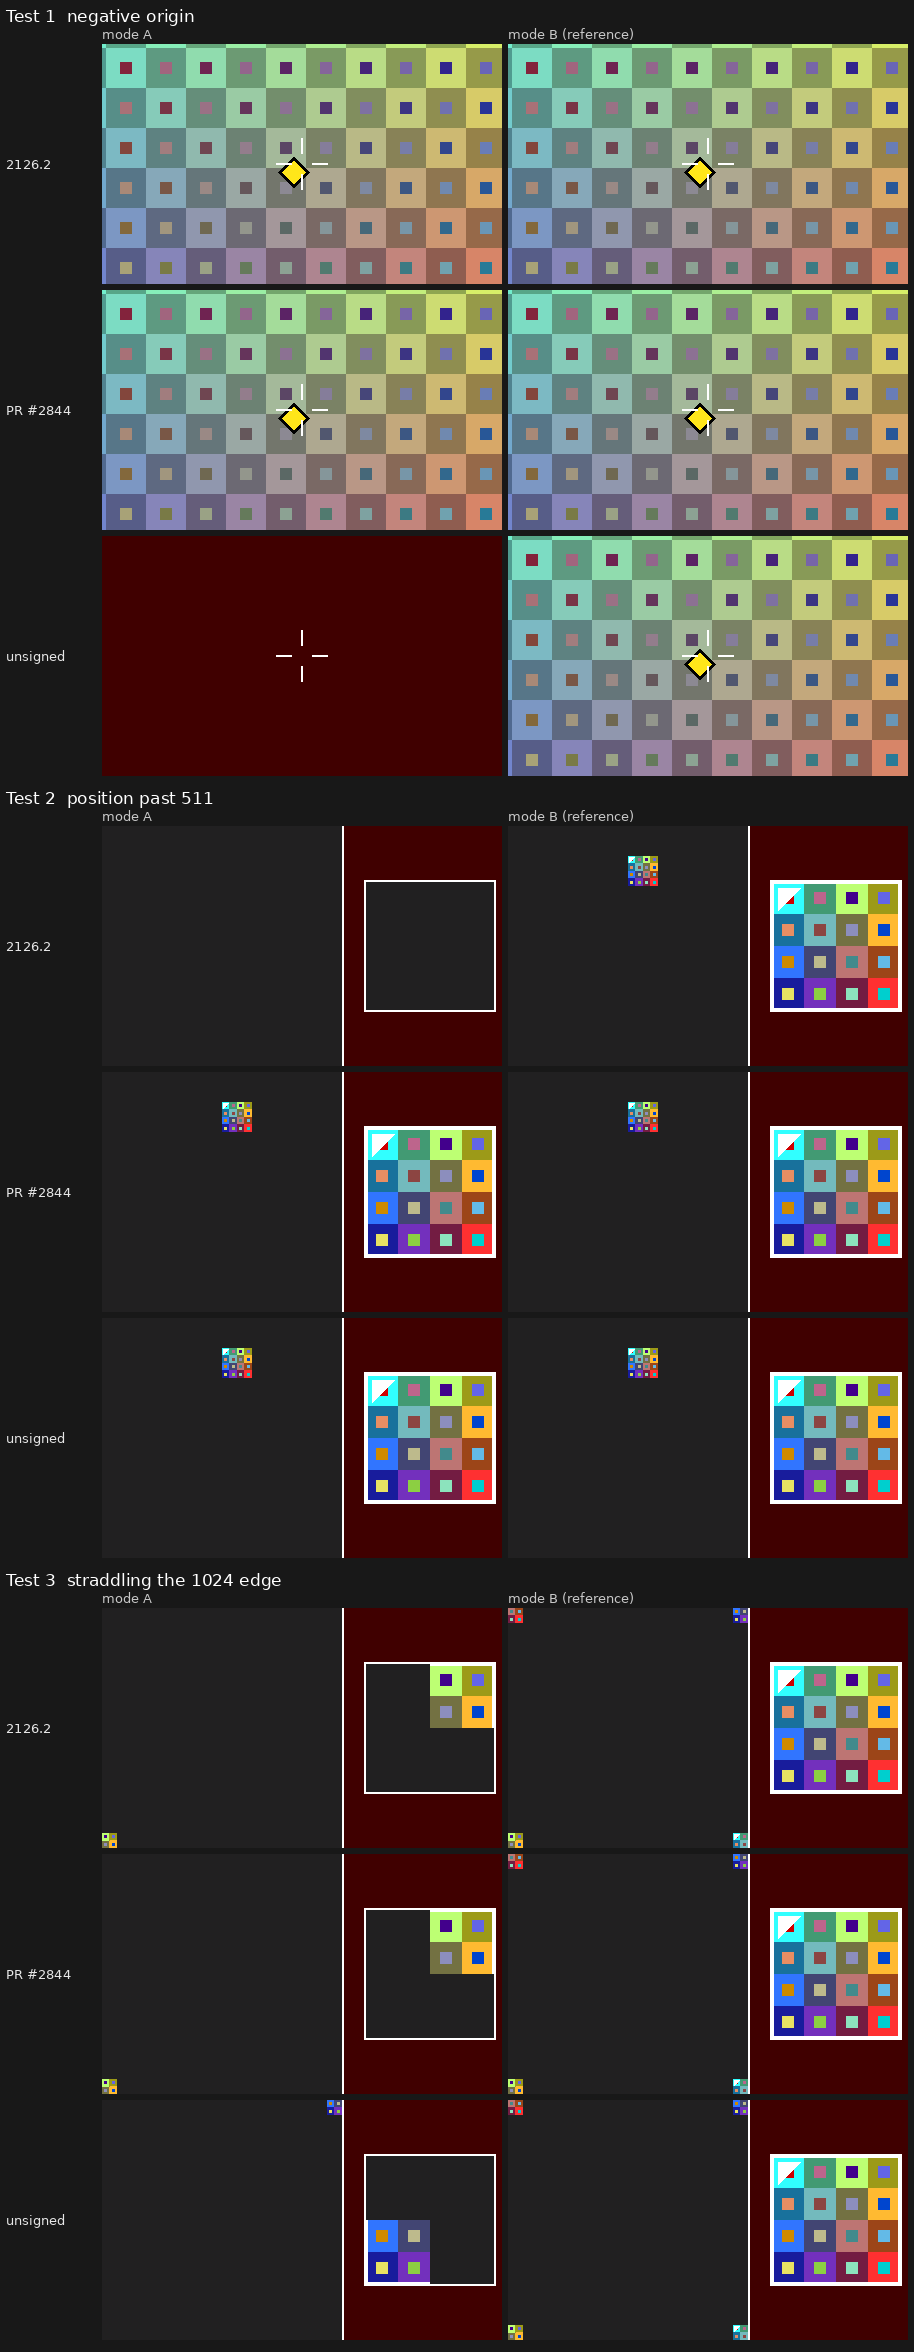
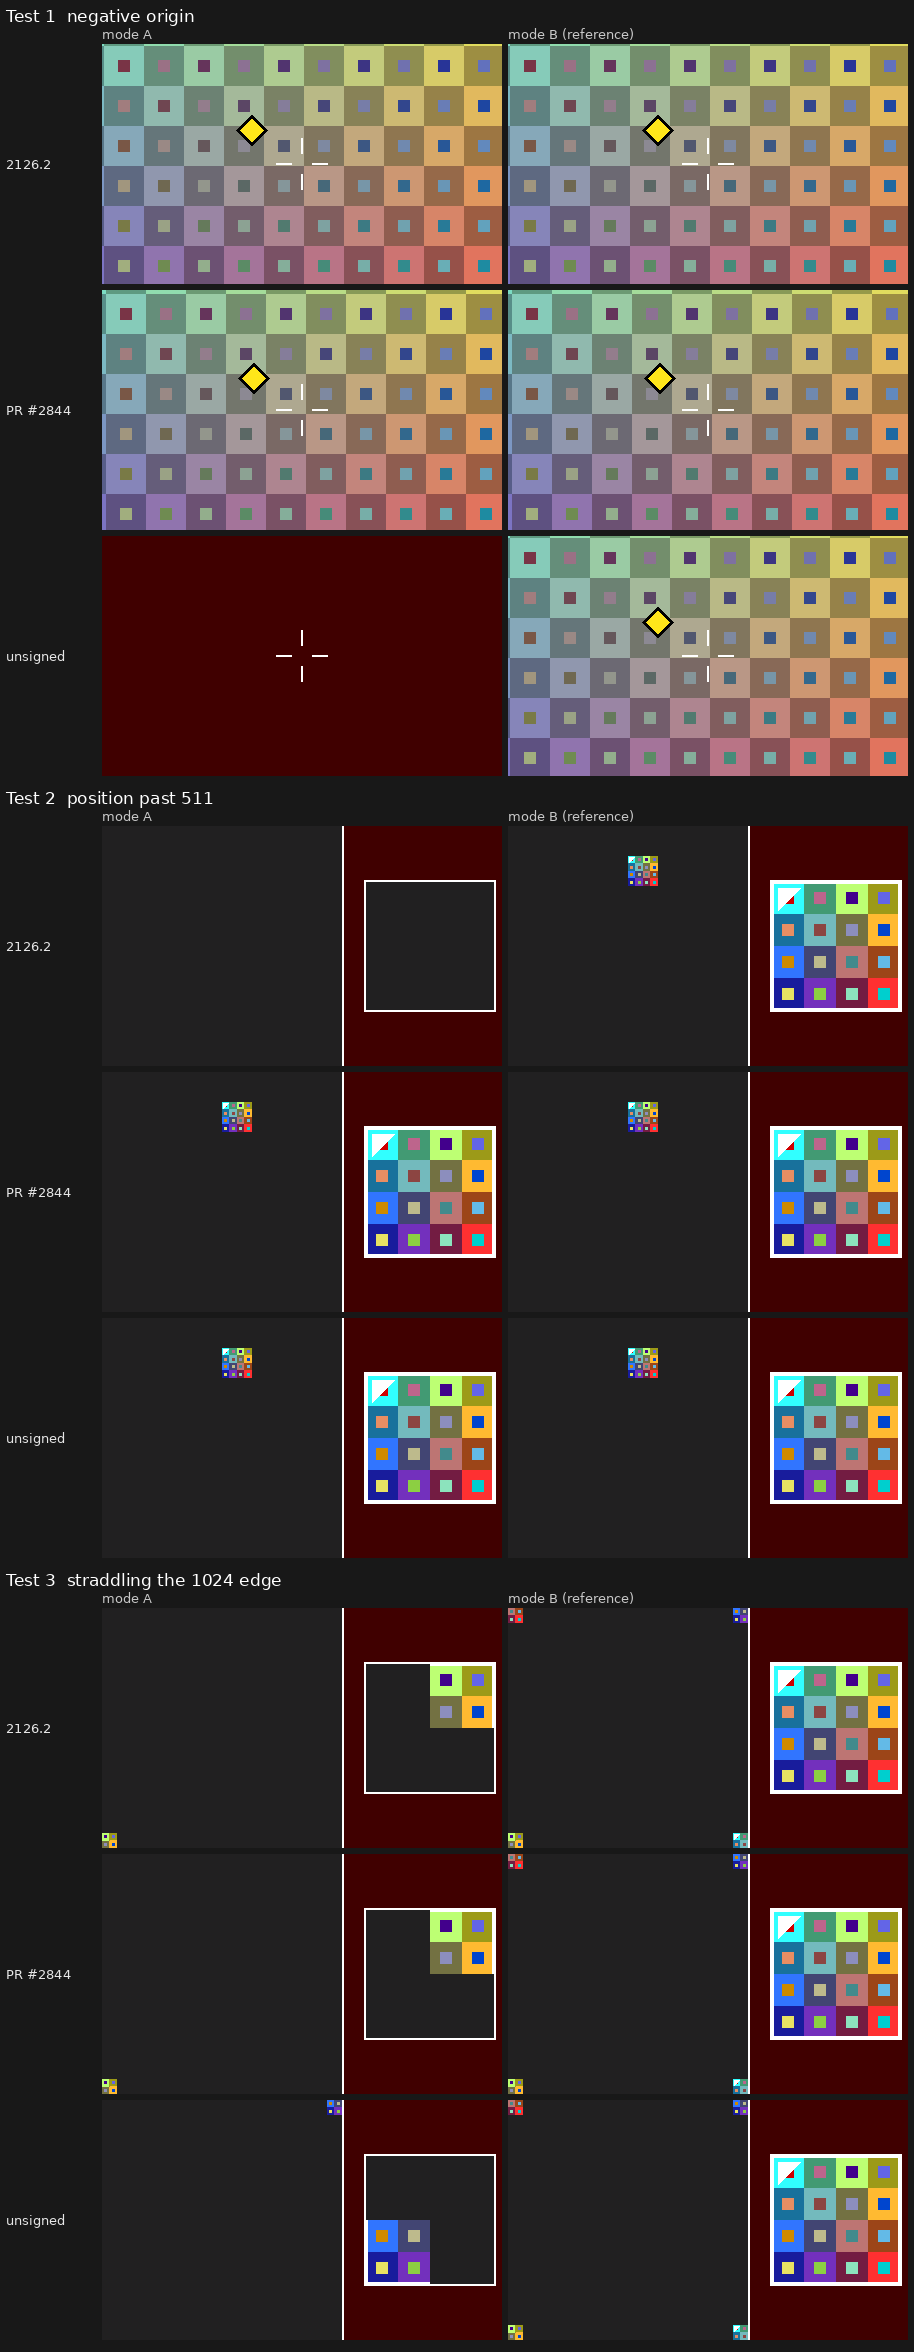
Fix the test 3 reference on a console, and move the controls off the screenshot shortcut
The references no longer touch the far edge of the 1024x1024 viewport, where a console drops the triangle. D-pad left and right pick the test and the circle pad scrolls, so L, SELECT and D-pad down are free. README: results of v1.1 on a Nintendo 3DS XL.

diff --git a/source/main.c b/source/main.c
@@ -1,9 +1,10 @@
-// Viewport origin tests for GPUREG_VIEWPORT_XY. L and R pick one of three:
+// Viewport origin tests for GPUREG_VIEWPORT_XY. D-pad left and right pick one of three:
 //  1  A negative origin: an 800x480 picture scrolled behind the top screen by moving the viewport origin.
 //  2  A position past 511: a picture drawn at 512,768 in a 1024x1024 buffer.
 //  3  Straddling the 1024 edge: the same picture at 960,960, which only fits if the origin wraps.
-// Mode A uses the origin under test. Mode B draws the same thing with the viewport at 0,0 and the
-// projection shifted, as the reference. X switches between them. Every test starts in mode A.
+// Mode A uses the origin under test. Mode B draws the same thing with the viewport at 0,0, as the
+// reference. X switches between them. Every test starts in mode A.
+// L, SELECT and the rest of the D-pad do nothing, so a screenshot shortcut does not disturb a test.
 
 #include <3ds.h>
 #include <citro3d.h>
@@ -27,11 +28,15 @@
 
 #define BUF 1024 // the off-screen buffer, square
 #define PIC 128  // the picture drawn into it, square
+#define POS_X    512 // where test 2 draws it
+#define POS_Y    768
+#define STRADDLE 960 // where test 3 draws it, on both axes
 
 #define WORLD_VERTS  (COLS * ROWS * 12)
 #define TARGET_VERTS 12
 #define HUD_VERTS    24
 #define PIC_VERTS    (16 * 12 + 24 + 3)
+#define REF3_MAX     (PIC_VERTS * 4)
 #define VIEW2_VERTS  12
 #define VIEW3_VERTS  30
 #define FRAME_VERTS  30
@@ -42,7 +47,9 @@ enum
 	V_TARGET = V_WORLD + WORLD_VERTS,
 	V_HUD    = V_TARGET + TARGET_VERTS,
 	V_PIC    = V_HUD + HUD_VERTS,
-	V_VIEW2  = V_PIC + PIC_VERTS,
+	V_REF2   = V_PIC + PIC_VERTS,
+	V_REF3   = V_REF2 + PIC_VERTS,
+	V_VIEW2  = V_REF3 + REF3_MAX,
 	V_VIEW3  = V_VIEW2 + VIEW2_VERTS,
 	V_FRAME  = V_VIEW3 + VIEW3_VERTS,
 	TOTAL_VERTS = V_FRAME + FRAME_VERTS,
@@ -60,6 +67,7 @@ static C3D_Tex bufTex;
 static C3D_RenderTarget* top;
 static C3D_RenderTarget* bufTarget;
 static bool haveBuffer;
+static int ref3Verts;
 
 static vertex* quad(vertex* v, float x0, float y0, float x1, float y1, float r, float g, float b)
 {
@@ -128,11 +136,24 @@ static void buildHud(void)
 	quad(v, cx - 1, cy + 10, cx + 1, cy + 26, 1, 1, 1);
 }
 
-// The 128x128 picture for the buffer: 16 cells, a white border and a white corner mark at the top left,
-// so a quarter of it, or a flipped copy, cannot be mistaken for the whole.
-static void buildPicture(void)
+// A rectangle of the picture, moved by ox,oy and cut to the buffer. The far edges stop a quarter of a
+// pixel short of 1024: a console drops a triangle that touches the far edge of a 1024 viewport.
+static vertex* piece(vertex* v, float x0, float y0, float x1, float y1, float r, float g, float b, float ox, float oy)
 {
-	vertex* v = vbo + V_PIC;
+	const float edge = BUF - 0.25f;
+	x0 += ox; x1 += ox; y0 += oy; y1 += oy;
+	if (x0 < 0) x0 = 0;
+	if (y0 < 0) y0 = 0;
+	if (x1 > edge) x1 = edge;
+	if (y1 > edge) y1 = edge;
+	if (x0 >= x1 || y0 >= y1) return v;
+	return quad(v, x0, y0, x1, y1, r, g, b);
+}
+
+// The 128x128 picture: 16 cells, a white border and a white corner mark at the top left, so a quarter
+// of it, or a flipped copy, cannot be mistaken for the whole.
+static vertex* picture(vertex* v, float ox, float oy)
+{
 	for (int row = 0; row < 4; row++)
 	{
 		for (int col = 0; col < 4; col++)
@@ -142,17 +163,36 @@ static void buildPicture(void)
 			const float g = shade * (0.2f + 0.8f * row / 3);
 			const float b = shade * (1.0f - 0.8f * col / 3);
 			const float x = col * 32, y = row * 32;
-			v = quad(v, x, y, x + 32, y + 32, r, g, b);
-			v = quad(v, x + 10, y + 10, x + 22, y + 22, 1.0f - r, 1.0f - g, 1.0f - b);
+			v = piece(v, x, y, x + 32, y + 32, r, g, b, ox, oy);
+			v = piece(v, x + 10, y + 10, x + 22, y + 22, 1.0f - r, 1.0f - g, 1.0f - b, ox, oy);
 		}
 	}
-	v = quad(v, 0, 0, PIC, 2, 1, 1, 1);
-	v = quad(v, 0, PIC - 2, PIC, PIC, 1, 1, 1);
-	v = quad(v, 0, 0, 2, PIC, 1, 1, 1);
-	v = quad(v, PIC - 2, 0, PIC, PIC, 1, 1, 1);
-	*v++ = (vertex){ 6, PIC - 6, 0.5f, 1, 1, 1, 1, 0, 0 };
-	*v++ = (vertex){ 30, PIC - 6, 0.5f, 1, 1, 1, 1, 0, 0 };
-	*v++ = (vertex){ 6, PIC - 30, 0.5f, 1, 1, 1, 1, 0, 0 };
+	v = piece(v, 0, 0, PIC, 2, 1, 1, 1, ox, oy);
+	v = piece(v, 0, PIC - 2, PIC, PIC, 1, 1, 1, ox, oy);
+	v = piece(v, 0, 0, 2, PIC, 1, 1, 1, ox, oy);
+	v = piece(v, PIC - 2, 0, PIC, PIC, 1, 1, 1, ox, oy);
+
+	const float mx = ox + 6, my = oy + PIC - 6;
+	if (mx >= 0 && mx + 24 <= BUF && my - 24 >= 0 && my <= BUF)
+	{
+		*v++ = (vertex){ mx, my, 0.5f, 1, 1, 1, 1, 0, 0 };
+		*v++ = (vertex){ mx + 24, my, 0.5f, 1, 1, 1, 1, 0, 0 };
+		*v++ = (vertex){ mx, my - 24, 0.5f, 1, 1, 1, 1, 0, 0 };
+	}
+	return v;
+}
+
+// Mode A draws the picture through its viewport. The references hold it where it must land in the
+// buffer: once for test 2, and for test 3 once per corner, each copy cut to the buffer.
+static void buildPictures(void)
+{
+	picture(vbo + V_PIC, 0, 0);
+	picture(vbo + V_REF2, POS_X, POS_Y);
+
+	vertex* v = vbo + V_REF3;
+	for (int i = 0; i < 4; i++)
+		v = picture(v, STRADDLE - ((i & 1) ? BUF : 0), STRADDLE - ((i & 2) ? BUF : 0));
+	ref3Verts = v - (vbo + V_REF3);
 }
 
 // What the top screen shows of the buffer: all of it on the left, the picture's place at 1:1 on the right.
@@ -162,7 +202,7 @@ static void buildViews(void)
 
 	vertex* v = vbo + V_VIEW2;
 	v = view(v, 0, 0, 240, 240, 0, 0, BUF, BUF);
-	view(v, x, y, x + PIC, y + PIC, 512, 768, 512 + PIC, 768 + PIC);
+	view(v, x, y, x + PIC, y + PIC, POS_X, POS_Y, POS_X + PIC, POS_Y + PIC);
 
 	// At 960,960 the picture's four quarters wrap into the four corners of the buffer.
 	v = vbo + V_VIEW3;
@@ -219,7 +259,7 @@ static void sceneInit(void)
 	vbo = linearAlloc(sizeof(vertex) * TOTAL_VERTS);
 	buildWorld();
 	buildHud();
-	buildPicture();
+	buildPictures();
 	buildViews();
 
 	C3D_BufInfo* bufInfo = C3D_GetBufInfo();
@@ -257,7 +297,7 @@ static void staticText(int test)
 		printf("\x1b[16;1Hif a negative viewport origin works.");
 		printf("\x1b[17;1HIn B the viewport is 240x400 at 0,0 and");
 		printf("\x1b[18;1Hthe projection is shifted instead.");
-		printf("\x1b[21;1HD-pad or circle pad: scroll");
+		printf("\x1b[21;1HCircle pad: scroll");
 		printf("\x1b[22;1HX: mode A/B   Y: auto/manual");
 	}
 	else if (test == TEST_POSITION)
@@ -268,8 +308,8 @@ static void staticText(int test)
 		printf("\x1b[13;1HLeft: the whole buffer.");
 		printf("\x1b[14;1HRight: where the picture belongs, 1:1.");
 		printf("\x1b[16;1HA must match B on a console.");
-		printf("\x1b[17;1HIn B the viewport is the whole buffer,");
-		printf("\x1b[18;1Hat 0,0, and the projection is shifted.");
+		printf("\x1b[17;1HIn B the viewport is the whole buffer");
+		printf("\x1b[18;1Hat 0,0 and the vertices are moved.");
 		printf("\x1b[22;1HX: mode A/B   Y: scissor");
 	}
 	else
@@ -287,7 +327,7 @@ static void staticText(int test)
 	}
 	if (test != TEST_NEGATIVE && !haveBuffer)
 		printf("\x1b[20;1HNo memory for the 1024x1024 buffer.");
-	printf("\x1b[23;1HL/R: test    START: exit");
+	printf("\x1b[23;1HD-pad left/right: test   START: exit");
 }
 
 // Test 1. The scroll is the picture coordinate of the screen's lower left corner. It starts where the
@@ -308,7 +348,7 @@ static void frameNegative(bool originScroll, u32 kDown, u32 kHeld)
 		newTarget = false;
 	}
 
-	if (kHeld & (KEY_LEFT | KEY_RIGHT | KEY_UP | KEY_DOWN)) automatic = false;
+	if (kHeld & (KEY_CPAD_LEFT | KEY_CPAD_RIGHT | KEY_CPAD_UP | KEY_CPAD_DOWN)) automatic = false;
 	if (automatic)
 	{
 		sx = step(sx, tx - SCREEN_W / 2, 2);
@@ -316,10 +356,10 @@ static void frameNegative(bool originScroll, u32 kDown, u32 kHeld)
 	}
 	else
 	{
-		if (kHeld & KEY_LEFT)  sx -= 3;
-		if (kHeld & KEY_RIGHT) sx += 3;
-		if (kHeld & KEY_DOWN)  sy -= 3;
-		if (kHeld & KEY_UP)    sy += 3;
+		if (kHeld & KEY_CPAD_LEFT)  sx -= 3;
+		if (kHeld & KEY_CPAD_RIGHT) sx += 3;
+		if (kHeld & KEY_CPAD_DOWN)  sy -= 3;
+		if (kHeld & KEY_CPAD_UP)    sy += 3;
 	}
 	if (sx < 0) sx = 0;
 	if (sx > WORLD_W - SCREEN_W) sx = WORLD_W - SCREEN_W;
@@ -381,9 +421,9 @@ static void frameNegative(bool originScroll, u32 kDown, u32 kHeld)
 // Tests 2 and 3. The picture goes into the buffer, then the top screen shows the buffer.
 static void frameBuffer(int test, bool atOrigin, bool scissor)
 {
-	const int origin[2] = { test == TEST_POSITION ? 512 : 960, test == TEST_POSITION ? 768 : 960 };
+	const int origin[2] = { test == TEST_POSITION ? POS_X : STRADDLE, test == TEST_POSITION ? POS_Y : STRADDLE };
 
-	printf("\x1b[8;1Hmode   %s", atOrigin ? "A  viewport at the position" : "B  projection shifted      ");
+	printf("\x1b[8;1Hmode   %s", atOrigin ? "A  viewport at the position" : "B  vertices at the position");
 	if (atOrigin)
 	{
 		printf("\x1b[9;1Hviewport  128x128 at x=%-4d y=%-4d  ", origin[0], origin[1]);
@@ -412,16 +452,11 @@ static void frameBuffer(int test, bool atOrigin, bool scissor)
 		}
 		else
 		{
-			// The reference: the same pixels with no origin involved. Straddling takes one draw per corner.
-			const int copies = test == TEST_POSITION ? 1 : 4;
-			for (int i = 0; i < copies; i++)
-			{
-				const int px = origin[0] - ((i & 1) ? BUF : 0), py = origin[1] - ((i & 2) ? BUF : 0);
-				Mtx_Ortho(&projection, -px, BUF - px, -py, BUF - py, 0, 1, true);
-				C3D_SetViewport(0, 0, BUF, BUF);
-				if (scissor) C3D_SetScissor(GPU_SCISSOR_NORMAL, 0, 0, BUF, BUF);
-				draw(&projection, V_PIC, PIC_VERTS);
-			}
+			Mtx_Ortho(&projection, 0, BUF, 0, BUF, 0, 1, true);
+			C3D_SetViewport(0, 0, BUF, BUF);
+			if (scissor) C3D_SetScissor(GPU_SCISSOR_NORMAL, 0, 0, BUF, BUF);
+			if (test == TEST_POSITION) draw(&projection, V_REF2, PIC_VERTS);
+			else draw(&projection, V_REF3, ref3Verts);
 		}
 
 		C3D_FrameDrawOn(top);
@@ -473,9 +508,9 @@ int main()
 		const u32 kDown = hidKeysDown(), kHeld = hidKeysHeld();
 		if (kDown & KEY_START) break;
 		if (kDown & KEY_X) modeA = !modeA;
-		if (kDown & (KEY_L | KEY_R))
+		if (kDown & (KEY_DLEFT | KEY_DRIGHT))
 		{
-			test = (test + ((kDown & KEY_R) ? 1 : TEST_COUNT - 1)) % TEST_COUNT;
+			test = (test + ((kDown & KEY_DRIGHT) ? 1 : TEST_COUNT - 1)) % TEST_COUNT;
 			modeA = true;
 			scissor = false;
 			staticText(test);

diff --git a/README.md b/README.md
@@ -4,15 +4,15 @@ A 3DS homebrew with three tests of what the console does with the origin in `GPU
 
 `vporigin.3dsx` is in the [latest release](../../releases/latest).
 
-Every test has two modes. Mode A uses the origin under test. Mode B draws the same pixels with the viewport at 0,0 and the projection shifted instead: the reference. L and R pick the test, X switches the mode.
+Every test has two modes. Mode A uses the origin under test. Mode B draws the same pixels with the viewport at 0,0: the reference. D-pad left and right pick the test, X switches the mode.
 
 ## The tests
 
-**1. A negative origin.** An 800x480 picture sits behind the 400x240 top screen. The aim is to put the cross on the diamond; each hit moves the diamond. Left alone, it plays itself. In mode A the viewport is 480x800, the picture always fills it, and scrolling moves the viewport origin, which is 0,0 at the start and negative everywhere else. The scissor is the 240x400 framebuffer. The bottom screen shows the origin and the register, for example `viewport 480x800 at x=-156 y=-172`, `GPUREG_VIEWPORT_XY = 0x03540364`.
+**1. A negative origin.** An 800x480 picture sits behind the 400x240 top screen. The aim is to put the cross on the diamond; each hit moves the diamond. Left alone, it plays itself. In mode A the viewport is 480x800, the picture always fills it, and scrolling moves the viewport origin, which is 0,0 at the start and negative everywhere else. The scissor is the 240x400 framebuffer. The bottom screen shows the origin and the register, for example `viewport 480x800 at x=-156 y=-172`, `GPUREG_VIEWPORT_XY = 0x03540364`. In mode B the viewport is 240x400 at 0,0 and the projection is shifted instead.
 
-**2. A position past 511.** A 128x128 picture is drawn at 512,768 into a 1024x1024 off-screen buffer (`GPUREG_VIEWPORT_XY = 0x03000200`). The top screen shows the whole buffer on the left and the place where the picture belongs, at 1:1, on the right.
+**2. A position past 511.** A 128x128 picture is drawn at 512,768 into a 1024x1024 off-screen buffer (`GPUREG_VIEWPORT_XY = 0x03000200`). The top screen shows the whole buffer on the left and the place where the picture belongs, at 1:1, on the right. In mode B the viewport is the whole buffer and the picture's vertices are moved to 512,768.
 
-**3. Straddling the 1024 edge.** The same picture at 960,960 (`GPUREG_VIEWPORT_XY = 0x03C003C0`), so it crosses the 1024 edge on both axes. If the origin wraps at ten bits, the four quarters of the picture land in the four corners of the buffer. The top screen shows the whole buffer on the left and the four corners put back together on the right. In mode B the picture is drawn four times, once per corner.
+**3. Straddling the 1024 edge.** The same picture at 960,960 (`GPUREG_VIEWPORT_XY = 0x03C003C0`), so it crosses the 1024 edge on both axes. If the origin wraps at ten bits, the four quarters of the picture land in the four corners of the buffer. The top screen shows the whole buffer on the left and the four corners put back together on the right. In mode B the viewport is the whole buffer and the picture is drawn four times, once per corner, each copy cut to the buffer.
 
 ## Reading the result
 
@@ -35,11 +35,49 @@ Y in tests 2 and 3 turns on a scissor that covers the whole buffer, 0,0 to 1024,
 
 | | |
 |---|---|
-| L / R | previous / next test, starting in mode A |
+| D-pad left / right | previous / next test, starting in mode A |
 | X | mode A / B |
 | Y | test 1: automatic / manual. Tests 2 and 3: scissor off / on |
-| D-pad or circle pad | test 1: scroll (switches to manual) |
+| Circle pad | test 1: scroll (switches to manual) |
 | START | exit |
+
+L, R, SELECT and D-pad up and down do nothing, so the Rosalina shortcut (L + D-pad down + SELECT) moves nothing.
+
+Six screenshots cover everything: each test in mode A and in mode B. In test 1, press Y first so the picture stands still.
+
+## On a console
+
+Nintendo 3DS XL (SPR-001), v1.1:
+
+| Test | Mode A on the console |
+|---|---|
+| 1 | the picture, as in mode B: a negative origin works |
+| 2 | the picture at 512,768; the 1:1 view is the expected picture pixel for pixel: an origin past 511 is a position |
+| 3 | the whole picture in the four corners; the 1:1 view is the expected picture pixel for pixel: the origin wraps |
+
+So the origin is neither signed nor unsigned. It is added modulo 1024, pixel by pixel, and a viewport that crosses the 1024 edge comes out on both sides of the buffer.
+
+![Test 3, mode A, on the console and on three Azahar builds](console/test3.png)
+
+| Test 2, mode A | Test 3, mode A |
+|---|---|
+| ![Test 2, mode A, on the console](console/test2_a.png) | ![Test 3, mode A, on the console](console/test3_a.png) |
+
+Test 1 in both modes, v1.0:
+
+| Mode A | Mode B |
+|---|---|
+| ![Mode A on the console](console/mode_a.jpg) | ![Mode B on the console](console/mode_b.jpg) |
+
+### The far edge of a 1024 viewport
+
+In v1.1 the reference of test 3 used triangles that touched or crossed the far edge of the 1024x1024 viewport. The console dropped every one of them whole, on both axes, where Azahar draws them; triangles crossing the near edge were clipped as expected. Mode B came out with holes:
+
+![Test 3, mode B, v1.1 on the console](console/test3_b_v1.1.png)
+
+The 240x400 viewport of test 1, mode B, clips at its far edge without trouble, so this belongs to the 1024 size.
+
+Since v1.2 the references keep a quarter of a pixel away from the far edge. v1.2 has not been run on a console yet.
 
 ## Azahar
 
@@ -52,18 +90,6 @@ Y in tests 2 and 3 turns on a scissor that covers the whole buffer, 0,0 to 1024,
 The scissor changes nothing on any of the three.
 
 ![The three tests in both modes on three Azahar builds](azahar.png)
-
-## On a console
-
-Test 1, Nintendo 3DS XL (SPR-001): mode A shows the picture and matches mode B. A negative origin works on hardware.
-
-| Mode A | Mode B |
-|---|---|
-| ![Mode A on the console](console/mode_a.jpg) | ![Mode B on the console](console/mode_b.jpg) |
-
-Tests 2 and 3 have not been run on a console yet.
-
-Six screenshots cover everything: each test in mode A and in mode B. In test 1, release the D-pad first: while scrolling, the numbers on the bottom screen can be a few frames away from the picture. Tests 2 and 3 stand still.
 
 ## Building
 
